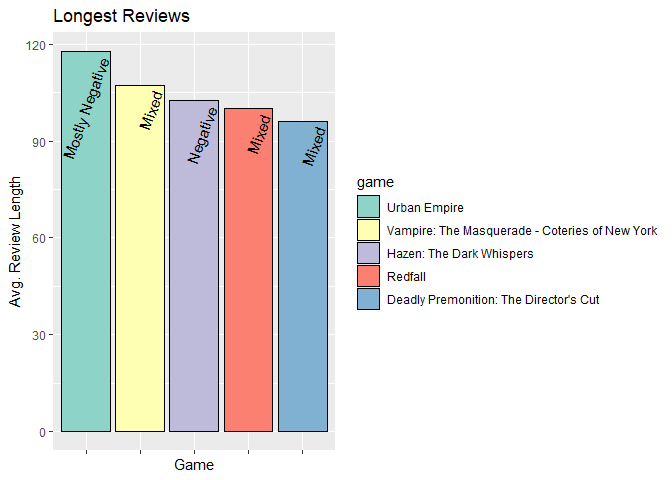
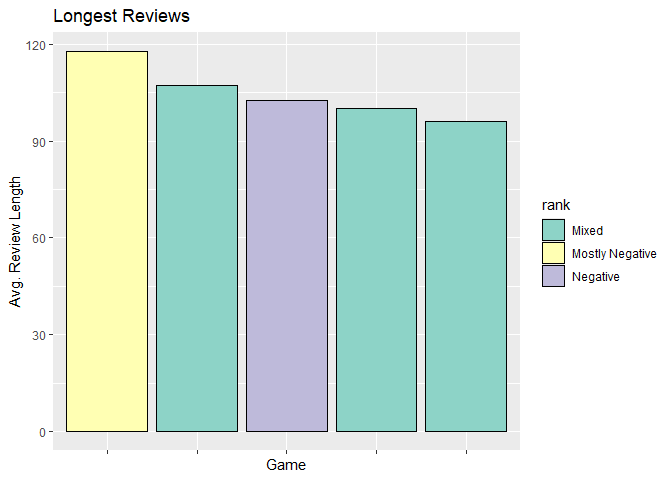
update review length graphs

diff --git a/data_processing/2-data-analysis.md b/data_processing/2-data-analysis.md
@@ -584,7 +584,7 @@ do some investigation…
 ``` r
 reviews_df |>
   filter(review_id==198792433) |>
-  select(review)
+  dplyr::select(review)
 ```
 
     # A tibble: 1 × 1
@@ -717,26 +717,31 @@ LScut2 <- LS_games |>
 ```
 
 ``` r
-ggplot(LScut1, aes(x = reorder(game, -avg), y=avg, fill=game)) +
+ggplot(LScut1, aes(x = reorder(game, -avg), y=avg, fill=rank)) +
   geom_bar(stat='identity', color="black") + 
   scale_fill_brewer(palette = "Set3") +
   theme(axis.text.x = element_blank()) +
-  geom_text(aes(label=rank), vjust=2, hjust=1, angle = 70) +
   labs(x="Game", y = "Avg. Review Length", title="Longest Reviews")
 ```
 
 ![](../images/long-short-bars-1.png)
 
 ``` r
-ggplot(LScut2, aes(x = reorder(game, -avg), y=avg, fill=game)) +
+ggplot(LScut2, aes(x = reorder(game, -avg), y=avg, fill=rank)) +
   geom_bar(stat='identity', color="black") + 
-  scale_fill_brewer(palette = "Set3") +
+  scale_fill_brewer(palette = "Pastel1") +
   theme(axis.text.x = element_blank()) +
-  geom_text(aes(label=rank), vjust=2, hjust=1, angle = 70) +
   labs(x="Game", y = "Avg. Review Length", title="Shortest Reviews")
 ```
 
 ![](../images/long-short-bars-2.png)
+
+For reference, the longest reviewed games are:<br> Urban Empire,
+Vampire: The Masquerade - Coteries of New York, Hazen: The Dark
+Whispers, Redfall, and Deadly Premonition: The Director’s Cut.
+
+The games with the shortest reviews are:<br> Hades, Powerful Courses,
+Bike Ride 3D, Stardew Valley, and Bhop Pro.
 
 It looks like maybe the “people have more to say about games they don’t
 like” theory might be onto something. None of the longest review length
@@ -1276,6 +1281,18 @@ What are people writing about in negative reviews? I can pick out at a
 glance bad, money, worst, boring. What makes them think these things?
 Bugs, graphics, game access, run (how the game runs), abandoned. No one
 likes to see a game published in an unfinished state and never updated.
+
+``` r
+print(paste(prettyNum(sum(pos_toks$n),big.mark=","), "words in positive review tokens after additional stop word removal"))
+```
+
+    [1] "498,153 words in positive review tokens after additional stop word removal"
+
+``` r
+print(paste(prettyNum(sum(neg_toks$n), big.mark=","), "words in negative review tokens after additional stop word removal"))
+```
+
+    [1] "913,265 words in negative review tokens after additional stop word removal"
 
 ### Term Frequencies
 
